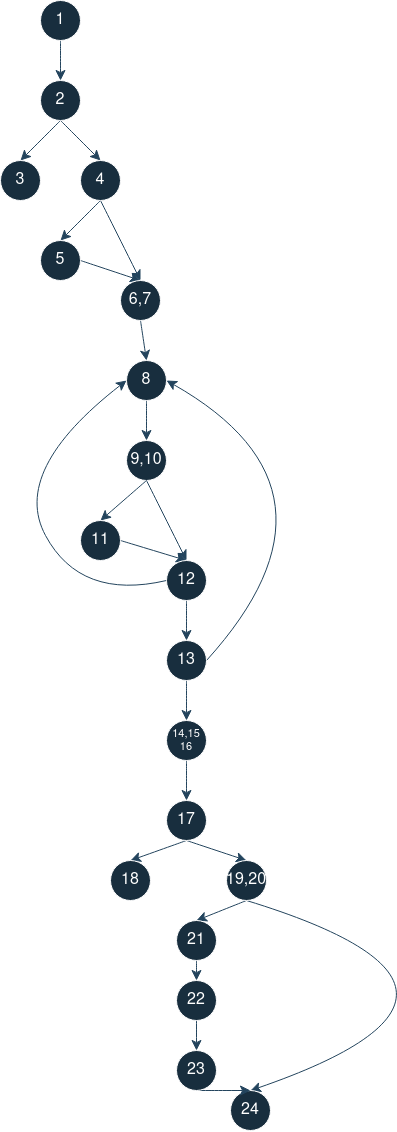
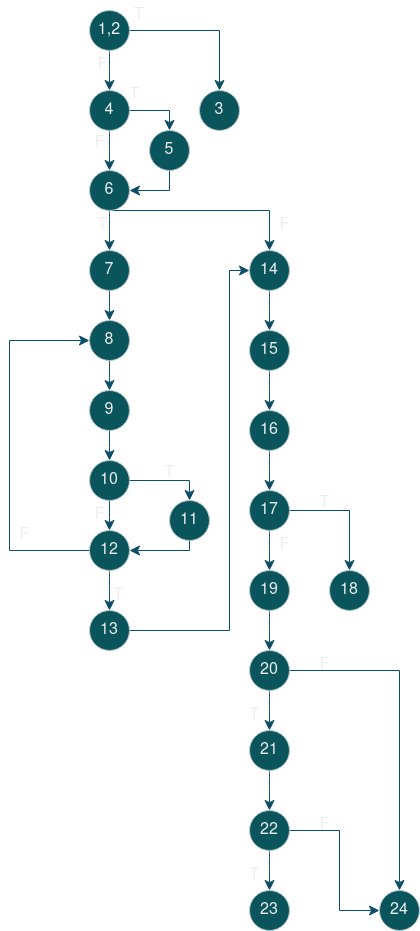
CFG fix & Readme fixed

diff --git a/README.md b/README.md
@@ -1,3 +1,6 @@
 Viktor Korunoski 216120
 
 2. ![Alt text](CFG_Lab2.png)
+3. Ciklicna kompeksnost e 9 i e presmetav prema toa kolku predikatni jazni ima. P+1=8+1=9
+note: Ne mozev da uspeam gradle da go inicializiram na sistemot i ne uspeav da gi izvedam 
+testotovite. 
